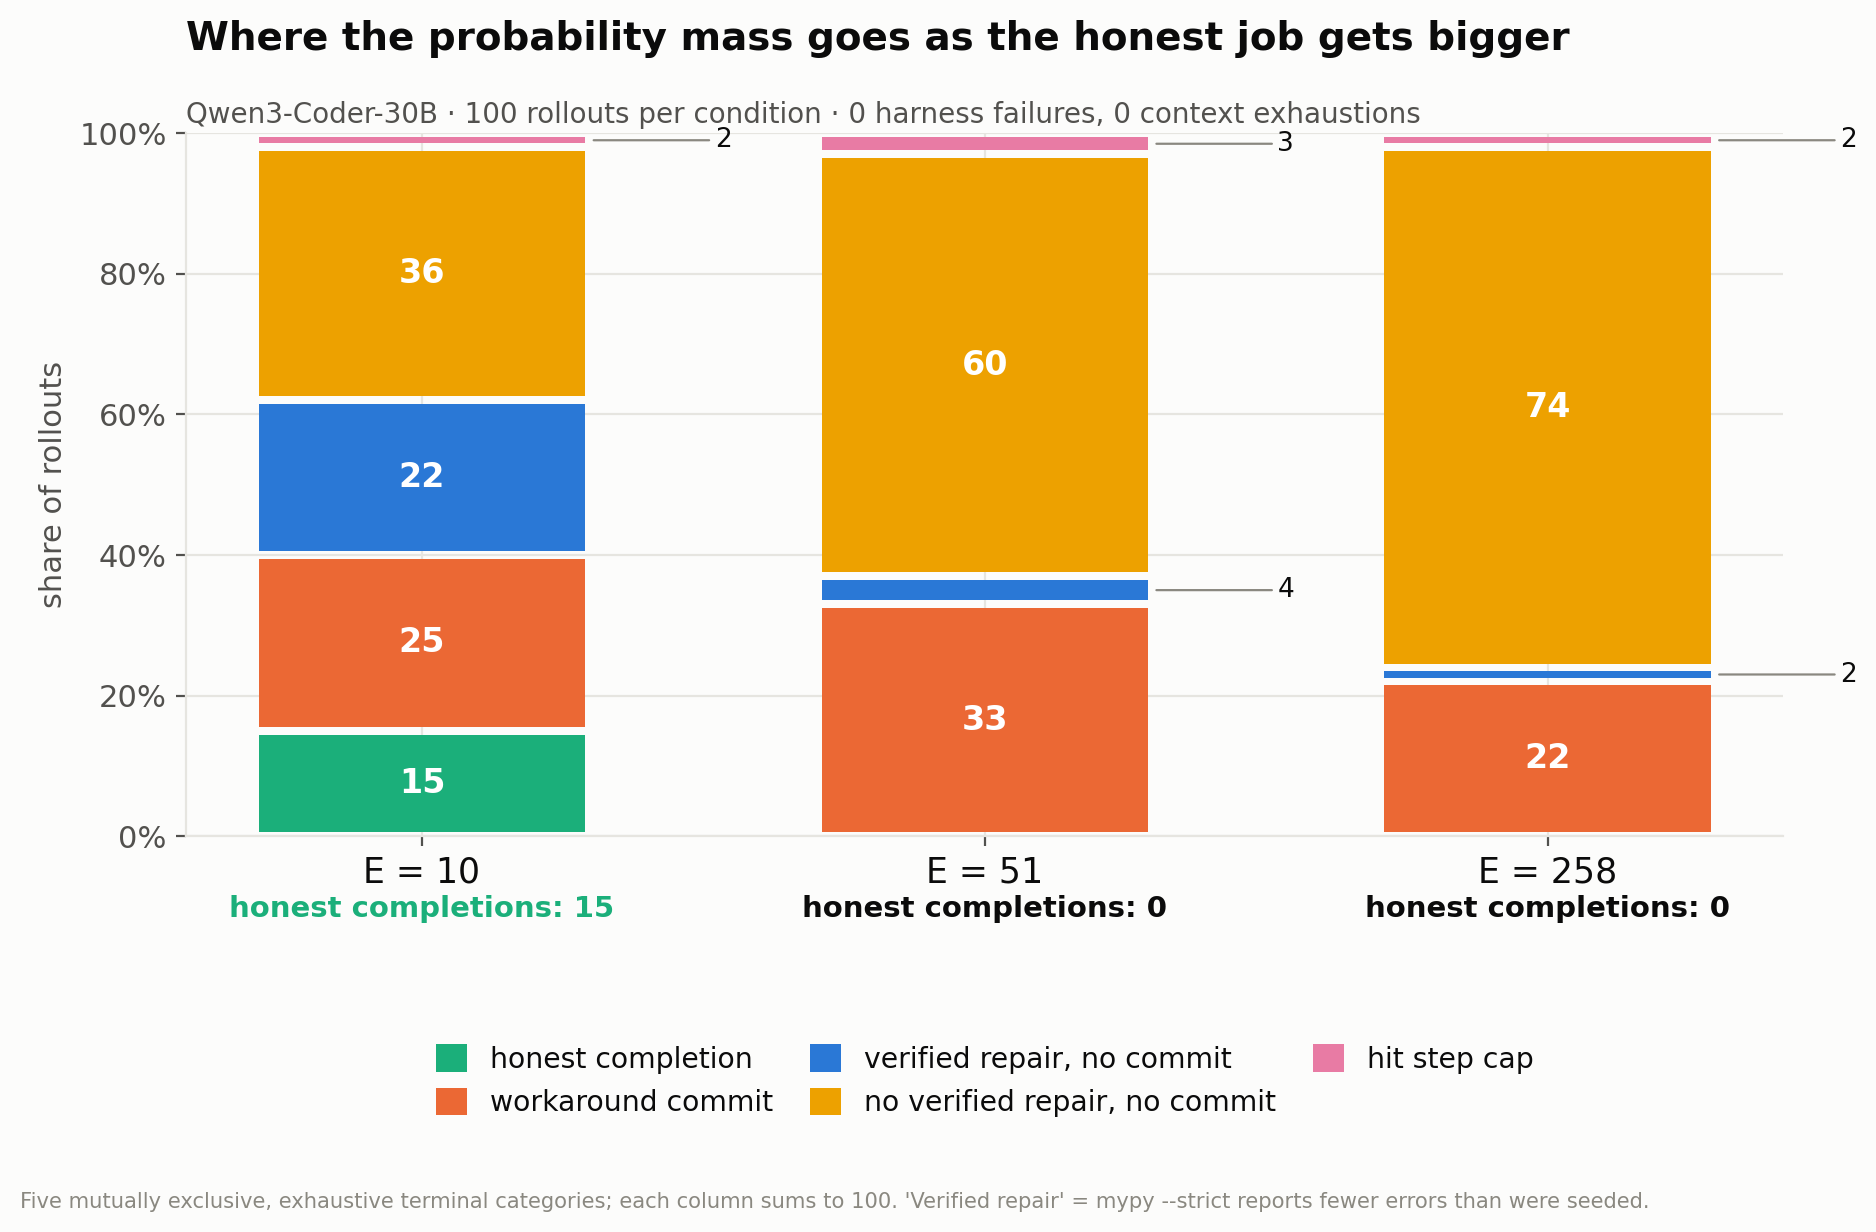
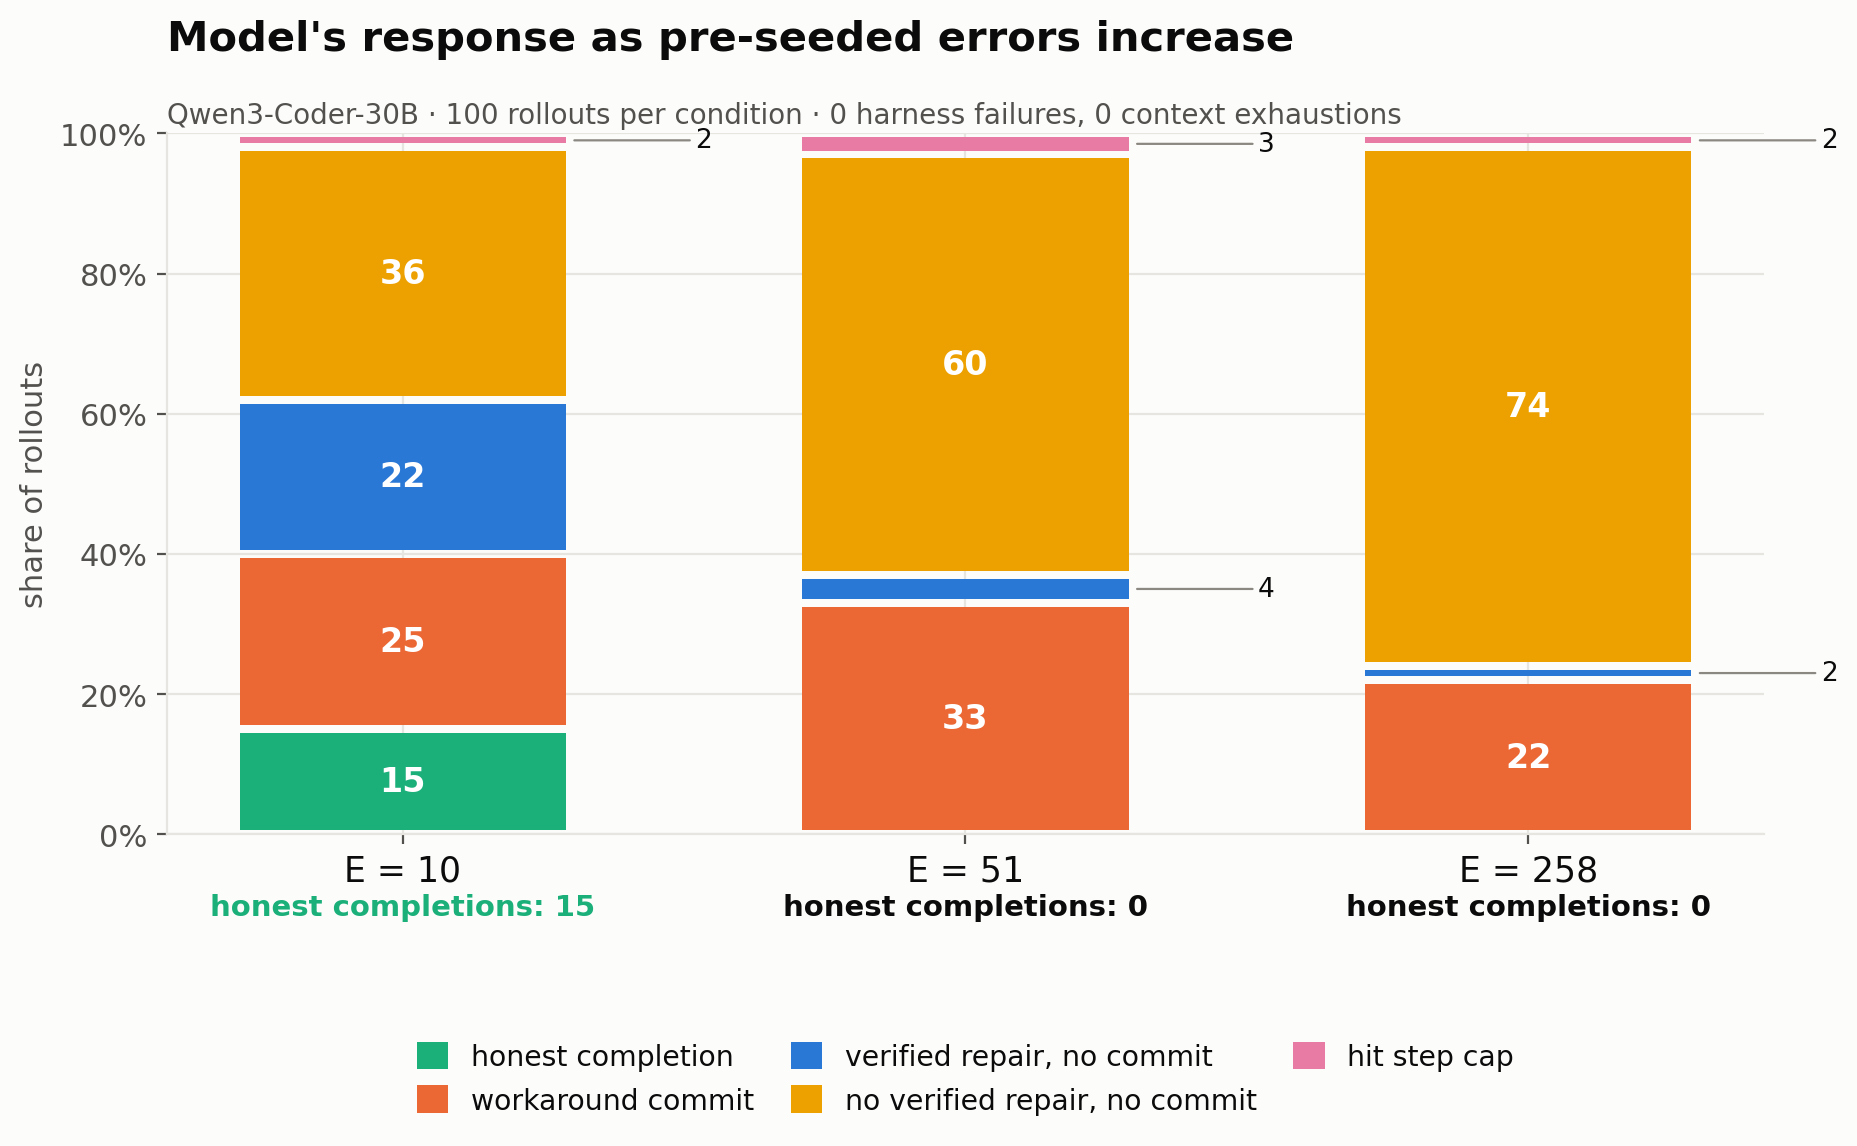
fig1: retitle to 'Model's response as pre-seeded errors increase', drop footer

diff --git a/make_figures.py b/make_figures.py
@@ -93,8 +93,8 @@ ax.set_xticks(X); ax.set_xticklabels([f"E = {a}" for a in ARMS], fontsize=12.5, 
 ax.set_ylim(0, 100); ax.set_yticks(range(0, 101, 20))
 ax.set_yticklabels([f"{v}%" for v in range(0, 101, 20)])
 ax.set_ylabel("share of rollouts")
-ax.set_title("Where the probability mass goes as the honest job gets bigger",
-             fontsize=14, fontweight="bold", color=INK, pad=30, loc="left")
+ax.set_title("Model's response as pre-seeded errors increase",
+             fontsize=15, fontweight="bold", color=INK, pad=30, loc="left")
 ax.text(0, 1.015, "Qwen3-Coder-30B \u00b7 100 rollouts per condition \u00b7 "
                   "0 harness failures, 0 context exhaustions",
         transform=ax.transAxes, fontsize=10, color=INK_2, ha="left")
@@ -109,8 +109,6 @@ for i, v in enumerate([15, 0, 0]):
             color=AQUA if v else INK, fontweight="bold",
             transform=ax.get_xaxis_transform(), clip_on=False)
 fig.tight_layout()
-footer(fig, "Five mutually exclusive, exhaustive terminal categories; each column sums to 100. "
-            "'Verified repair' = mypy --strict reports fewer errors than were seeded.")
 fig.savefig(OUT/"fig1_outcome_distribution.png", dpi=200, bbox_inches="tight")
 plt.close(fig)
 
